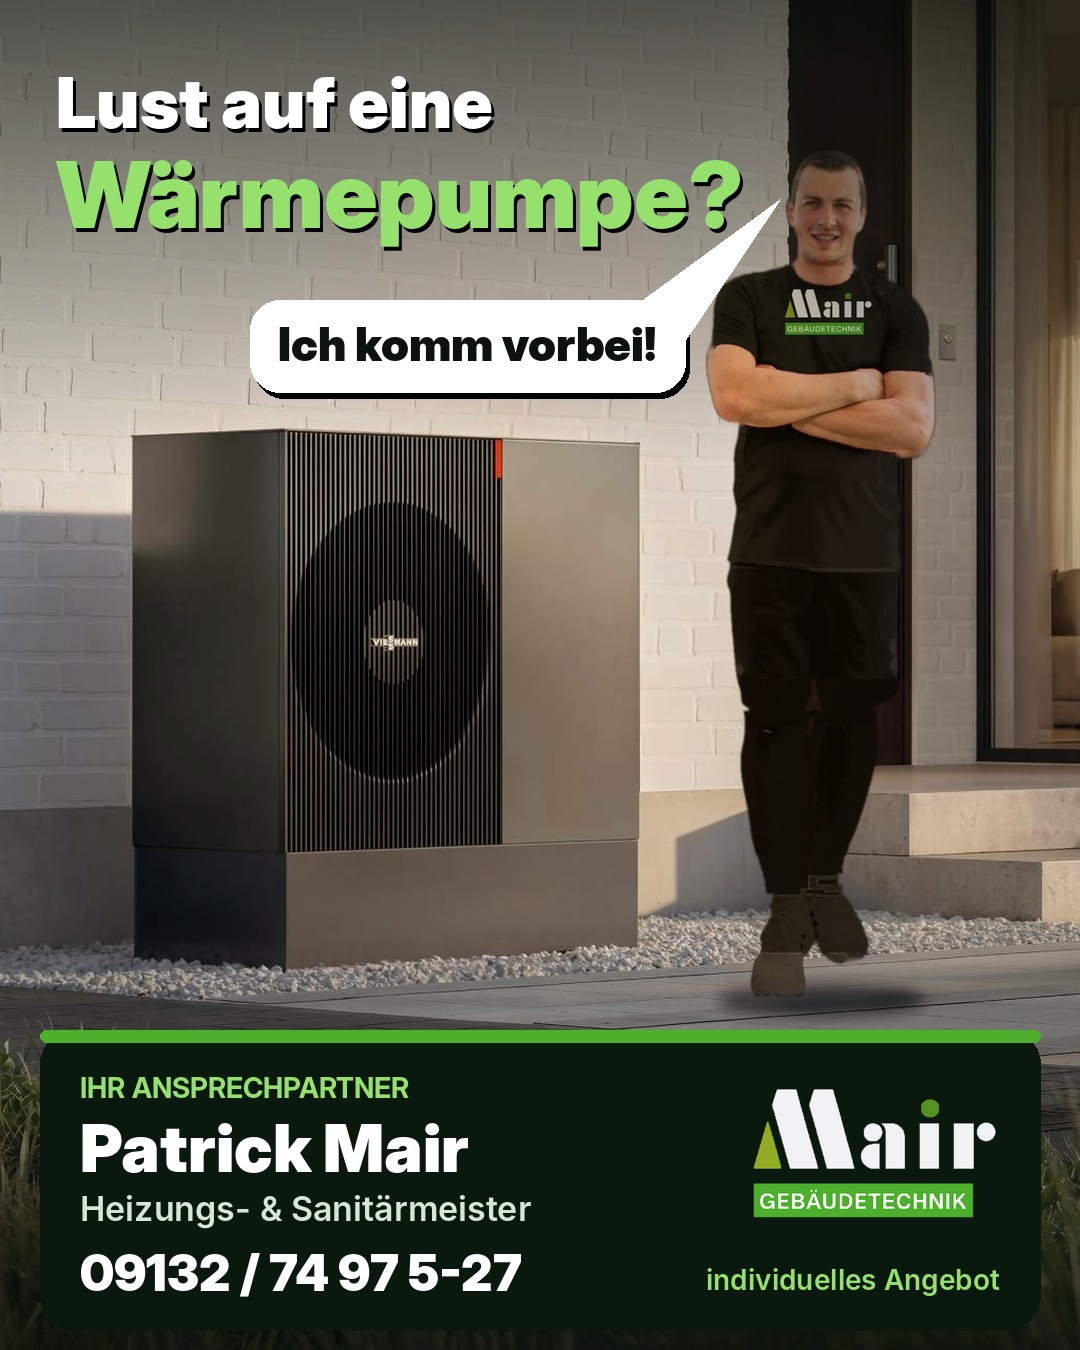
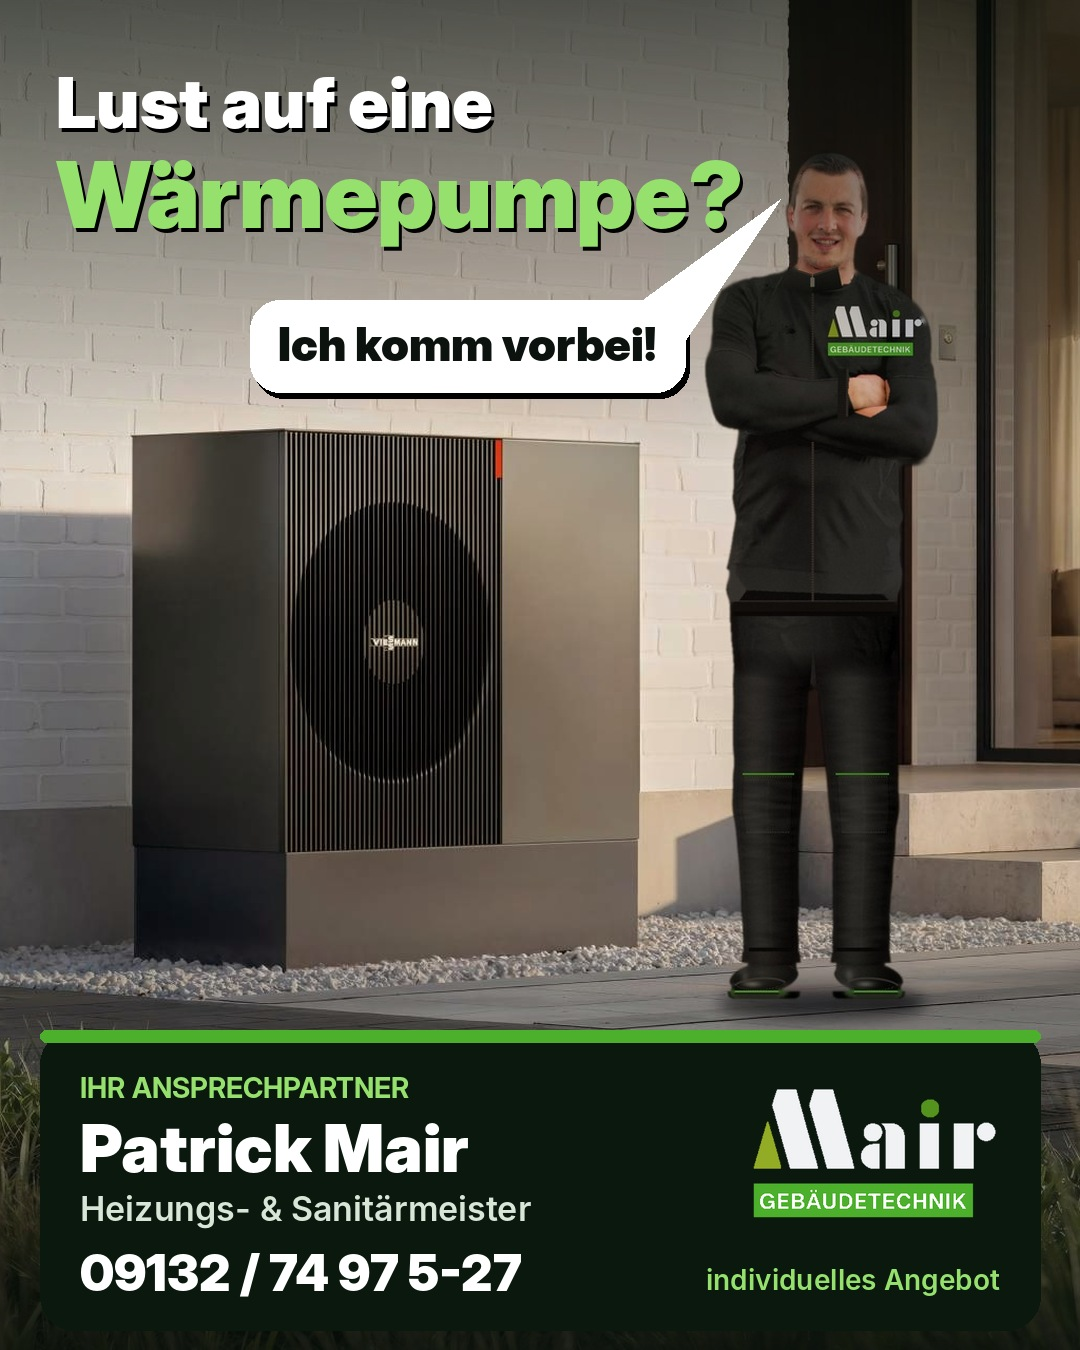
Werbefigur: Mair-Arbeitsjacke, Arbeitshose, Sicherheitsschuhe, Stand auf beiden Füßen
Claude-Session: https://claude.ai/code/session_015TKpD5CLVduBr4JdeyDFWw

Changed region(s): [[0.6722, 0.4044, 0.8556, 0.7467], [0.6417, 0.1244, 0.8861, 0.3733], [0.825, 0.4667, 0.8556, 0.4978]]

diff --git a/werbefigur/jacke.py b/werbefigur/jacke.py
@@ -1,0 +1,229 @@
+"""Patrick (p3) im kompletten Mair-Arbeitsoutfit:
+schwarze Arbeitsjacke (lange Ärmel, Stehkragen, Reißverschluss, Logo), schwarze Arbeitshose mit
+Kniepolstertaschen, schwarze Sicherheitsschuhe mit grünem Akzent, sicherer Stand auf beiden Füßen."""
+import cv2, numpy as np
+from PIL import Image
+
+SS = 3                                   # Supersampling für gezeichnete Teile
+GREEN = np.array([44, 176, 76], np.float32)   # BGR Mair-Grün
+img0 = cv2.imread('fig3/p3_crop.png').astype(np.float32)
+m0 = np.load('fig3/p3_m.npy').astype(np.float32)
+H, W = m0.shape
+lab = cv2.cvtColor(img0.astype(np.uint8), cv2.COLOR_BGR2LAB).astype(np.float32)
+L, A = lab[..., 0], lab[..., 1]
+hsv = cv2.cvtColor(img0.astype(np.uint8), cv2.COLOR_BGR2HSV).astype(np.int32)
+inside = m0 > 0.35
+rng = np.random.default_rng(3)
+TEX = cv2.GaussianBlur(rng.normal(0, 1, (H, W)).astype(np.float32), (0, 0), 0.7) * 2.2   # Stoffkorn
+
+def poly_mask(pts, shape=(H, W)):
+    big = np.zeros((shape[0] * SS, shape[1] * SS), np.uint8)
+    cv2.fillPoly(big, [np.round(np.array(pts) * SS).astype(np.int32)], 255, lineType=cv2.LINE_AA)
+    return cv2.resize(big, (shape[1], shape[0]), interpolation=cv2.INTER_AREA).astype(np.float32) / 255
+
+def norm(Lsrc, sel, lo, hi):
+    v = Lsrc[sel]
+    a, b = np.percentile(v, 3), np.percentile(v, 97)
+    return lo + np.clip((Lsrc - a) / (b - a + 1e-6), 0, 1) * (hi - lo)
+
+# ------------------------------------------------------------------ OBERKÖRPER
+Y_HEM = 742                                                   # Jackensaum
+skin = (A > 134) & (A < 172) & (L > 60) & (hsv[..., 0] < 28) & inside
+skin = cv2.morphologyEx(skin.astype(np.uint8), cv2.MORPH_OPEN, np.ones((3, 3), np.uint8)) > 0
+hand = poly_mask([(292, 371), (318, 366), (346, 374), (354, 400), (348, 428), (324, 442), (300, 434), (289, 404)]) > 0.5
+head = np.zeros_like(inside); head[:214] = True
+neck = poly_mask([(196, 150), (276, 150), (282, 238), (190, 238)]) > 0.5
+face = (head | neck) & skin
+arms = skin & ~face & ~hand
+arms[:236] = False
+shirt = inside & ~skin & ~head
+shirt[Y_HEM:] = False
+shirt[:200] = False
+# Rot-/Pink-Säume, die noch keine Haut sind
+shirt |= inside & (A > 150) & ~face & ~hand & (np.arange(H)[:, None] > 205) & (np.arange(H)[:, None] < Y_HEM)
+jacket = (shirt | arms)
+jacket[690:Y_HEM] |= inside[690:Y_HEM]                       # Jacke über Shorts-Bund verlängern
+
+# Schattierung: Torso aus Originalhelligkeit (Aufdrucke ausgeflickt), Arme getrennt normiert
+prints = shirt & (A < 160)
+prints = cv2.dilate(prints.astype(np.uint8), np.ones((7, 7), np.uint8)) > 0
+Lt = cv2.inpaint(L.astype(np.uint8), (prints & shirt).astype(np.uint8), 7, cv2.INPAINT_TELEA).astype(np.float32)
+shade = np.zeros_like(L)
+tor = shirt & ~prints
+shade = np.where(shirt, norm(Lt, tor, 12, 50), shade)
+shade = np.where(arms, norm(cv2.GaussianBlur(L, (0, 0), 1.6), arms, 10, 54), shade)
+hemz = np.zeros_like(inside); hemz[690:Y_HEM] = True; hemz &= jacket & ~shirt & ~arms
+shade = np.where(hemz, cv2.GaussianBlur(norm(L, inside & (np.arange(H)[:, None] > 700), 12, 40), (0, 0), 2), shade)
+shade += TEX
+jac_bgr = np.stack([shade * 1.03, shade * 1.0, shade * 0.97], -1)
+
+img = img0.copy()
+ja = cv2.GaussianBlur(jacket.astype(np.float32), (3, 3), 0)[..., None]
+img = img * (1 - ja) + jac_bgr * ja
+
+# Ärmelbündchen am Handgelenk (oberer Unterarm endet an der Hand)
+cuff = poly_mask([(274, 368), (290, 366), (289, 440), (273, 444)]) * ((arms | jacket) & inside & ~hand)
+img = img * (1 - cuff[..., None]) + (np.array([24, 24, 25]) + TEX[..., None] + 3 * np.sin(np.mgrid[0:H, 0:W][0] * 1.6)[..., None]) * cuff[..., None]
+cl = poly_mask([(287, 367), (290, 367), (289, 440), (286, 441)]) * (inside & ~hand)
+img = img * (1 - cl[..., None] * 0.6) + np.array([62, 62, 64]) * (cl[..., None] * 0.6)
+
+# Stehkragen (zwei Hälften, Reißverschluss-Zipper in der Mitte)
+cl_l = [(188, 242), (195, 209), (233, 221), (233, 250)]
+cl_r = [(235, 250), (235, 221), (273, 209), (280, 242)]
+for pts, sgn in ((cl_l, -1), (cl_r, 1)):
+    cm = poly_mask(pts)
+    g = 14 + 22 * np.clip(1 - (yy_ := np.mgrid[0:H, 0:W][0].astype(np.float32) - 209) / 40, 0, 1) + (8 if sgn < 0 else 0)
+    cb = np.stack([g + TEX] * 3, -1)
+    img = img * (1 - cm[..., None]) + cb * cm[..., None]
+    top = np.clip(poly_mask(pts) - poly_mask([(p[0], p[1] + (3 if i in (1, 2) else 0)) for i, p in enumerate(pts)]), 0, 1)
+    img = img * (1 - top[..., None] * 0.8) + np.array([66, 66, 68]) * top[..., None] * 0.8
+pull = poly_mask([(231, 226), (237, 226), (237, 240), (231, 240)])
+img = img * (1 - pull[..., None]) + np.array([120, 122, 124]) * pull[..., None]
+# Reißverschluss (nur auf sichtbarem Torso, unter den Armen verdeckt)
+zip_ = poly_mask([(233, 250), (236, 250), (236, Y_HEM), (233, Y_HEM)]) * (shirt | hemz).astype(np.float32)
+img = img * (1 - zip_[..., None]) + np.array([38, 38, 40]) * zip_[..., None]
+teeth = zip_ * ((np.arange(H)[:, None] % 4) < 2)
+img = img * (1 - teeth[..., None] * 0.5) + np.array([62, 62, 65]) * teeth[..., None] * 0.5
+# Saum-Bund
+hemb = poly_mask([(96, Y_HEM - 16), (378, Y_HEM - 16), (378, Y_HEM), (96, Y_HEM)]) * inside
+img = img * (1 - hemb[..., None]) + (np.array([16, 16, 17]) + TEX[..., None]) * hemb[..., None]
+hl = poly_mask([(96, Y_HEM - 17), (378, Y_HEM - 17), (378, Y_HEM - 15), (96, Y_HEM - 15)]) * inside
+img = img * (1 - hl[..., None] * 0.5) + np.array([60, 60, 62]) * hl[..., None] * 0.5
+# ------------------------------------------------------------------ UNTERKÖRPER (neu aufgebaut)
+FLOOR = 1342
+keep = np.zeros_like(inside); keep[:Y_HEM] = True
+hips = inside.copy(); hips[:Y_HEM] = False; hips[866:] = False          # echte Hosenpartie (Shorts) bis Oberschenkel
+# Hüftpartie: Zylinder-Schattierung je Zeile + echte Falten (Hochpass) aus den Shorts
+hskin = hips & ((A > 134) | (L > 80))
+hskin = cv2.dilate(hskin.astype(np.uint8), np.ones((7, 7), np.uint8)) > 0
+Lh = cv2.inpaint(np.clip(L, 0, 255).astype(np.uint8), (hskin & hips).astype(np.uint8), 9, cv2.INPAINT_TELEA).astype(np.float32)
+hp = Lh - cv2.GaussianBlur(Lh, (0, 0), 6)
+hp = np.clip(hp, -12, 12)
+xs_ = np.arange(W, dtype=np.float32)
+hsh = np.zeros_like(L)
+for y in range(Y_HEM, 866):
+    r = np.where(inside[y])[0]
+    if r.size < 5: continue
+    u = (xs_ - r.min()) / (r.max() - r.min() + 1e-6)
+    hsh[y] = 12 + 26 * np.exp(-((u - 0.33) / 0.33) ** 2) - 6 * np.clip((u - 0.82) / 0.18, 0, 1)
+hipsh = hsh + 0.5 * hp + TEX
+img = np.where(hips[..., None], np.stack([hipsh * 1.03, hipsh, hipsh * 0.97], -1), img)
+# Gesäßtaschen-/Gürtelandeutung: Gürtel unter dem Jackensaum
+belt = poly_mask([(100, Y_HEM), (376, Y_HEM), (376, Y_HEM + 7), (100, Y_HEM + 7)]) * hips
+img = img * (1 - belt[..., None]) + np.array([9, 9, 10]) * belt[..., None]
+# Hosenbeine: geschwungene Kanten, Faltenkarte, Schritt geschlossen
+row = np.where(inside[804])[0]; xl, xr = row.min() + 2, row.max() - 2
+alpha = np.where(keep, m0, 0).astype(np.float32)
+alpha = np.maximum(alpha, hips.astype(np.float32) * m0)
+yy, xx = np.mgrid[0:H, 0:W].astype(np.float32)
+Y0, Y1 = 800, 1286
+ys = np.arange(H, dtype=np.float32)
+t = np.clip((ys - Y0) / (Y1 - Y0), 0, 1)
+def lerp(a, b, t): return a + (b - a) * t
+bulge = np.sin(np.pi * np.clip(t * 1.25, 0, 1)) * 6           # Oberschenkel
+knee = np.exp(-((ys - 1045) / 40) ** 2) * 4
+wob = cv2.GaussianBlur(rng.normal(0, 1, (H, 4)).astype(np.float32), (1, 0), sigmaX=0.1, sigmaY=9) * 2.5
+legs = [  # x(y) für linke und rechte Kante
+    (lerp(xl, 126, t) - bulge - knee + wob[:, 0], lerp(234, 214, np.clip(t * 1.6, 0, 1)) + wob[:, 1] * 0.6),
+    (lerp(235, 264, np.clip(t * 1.6, 0, 1)) + wob[:, 2] * 0.6, lerp(xr, 354, t) + bulge + knee + wob[:, 3]),
+]
+# Faltenkarte (quer laufende, weiche Falten)
+fn = rng.normal(0, 1, (H, W)).astype(np.float32)
+fold = cv2.GaussianBlur(fn, (0, 0), sigmaX=10, sigmaY=2.2)
+fold = fold / (fold.std() + 1e-6)
+pants_rgb = np.zeros((H, W, 3), np.float32); pants_a = np.zeros((H, W), np.float32)
+for li, (xa, xb) in enumerate(legs):
+    pm = np.zeros((H * SS, W * SS), np.uint8)
+    pts = [(xa[y], y) for y in range(Y0, Y1 + 1)] + [(xb[y], y) for y in range(Y1, Y0 - 1, -1)]
+    cv2.fillPoly(pm, [np.round(np.array(pts) * SS).astype(np.int32)], 255, lineType=cv2.LINE_AA)
+    pm = cv2.resize(pm, (W, H), interpolation=cv2.INTER_AREA).astype(np.float32) / 255
+    u = np.clip((xx - xa[:, None]) / (xb - xa + 1e-6)[:, None], 0, 1)
+    light = 0.30 if li == 0 else 0.40                           # Licht von links
+    sh = 12 + 30 * np.exp(-((u - light) / 0.30) ** 2) - 7 * np.clip((u - 0.8) / 0.2, 0, 1)
+    sh += 2.8 * fold * (0.4 + 0.6 * np.exp(-((yy - 1050) / 70) ** 2) + 0.9 * np.clip((yy - 1210) / 80, 0, 1))
+    sh += 7 * np.exp(-((u - 0.5) / 0.02) ** 2) * np.clip((yy - 900) / 60, 0, 1) * 0.5      # Bügelfalte
+    sh += TEX
+    kpl = (yy > 992) & (yy < 1088) & (u > 0.14) & (u < 0.86)
+    sh = np.where(kpl, sh + 3, sh)
+    edge_k = kpl & ~((yy > 995) & (yy < 1085) & (u > 0.16) & (u < 0.84))
+    sh = np.where(edge_k, sh - 6, sh)
+    stitch = ((np.abs(yy - 997) < 0.7) | (np.abs(yy - 1083) < 0.7)) & (u > 0.17) & (u < 0.83) & ((xx.astype(int) % 4) < 2)
+    col = np.stack([sh * 1.03, sh, sh * 0.97], -1)
+    col = np.where(stitch[..., None], np.array([58, 60, 62], np.float32), col)
+    gp = (np.abs(yy - 993) < 1.3) & (u > 0.14) & (u < 0.86)
+    col = np.where(gp[..., None], GREEN * 0.75, col)
+    ramp = np.clip((yy - Y0) / 45, 0, 1)
+    pmr = pm * ramp
+    pants_rgb = pants_rgb * (1 - pmr[..., None]) + col * pmr[..., None]
+    pants_a = np.maximum(pants_a, pmr)
+img = img * (1 - pants_a[..., None]) + pants_rgb * pants_a[..., None]
+alpha = np.maximum(alpha, pants_a)
+
+# Sicherheitsschuhe (Vorderansicht, leicht nach außen gedreht)
+def ell(cx, cy, rx, ry, ang=0):
+    big = np.zeros((H * SS, W * SS), np.uint8)
+    cv2.ellipse(big, (int(cx * SS), int(cy * SS)), (int(rx * SS), int(ry * SS)), ang, 0, 360, 255, -1, lineType=cv2.LINE_AA)
+    return cv2.resize(big, (W, H), interpolation=cv2.INTER_AREA).astype(np.float32) / 255
+def paint(img, mask, col):
+    return img * (1 - mask[..., None]) + col * mask[..., None]
+def shoe(cx, side, img, alpha):
+    ox = side * 13
+    shaft = poly_mask([(cx - 36, 1262), (cx + 36, 1262), (cx + 40, 1306), (cx - 40, 1306)])
+    vamp = ell(cx + ox, 1308, 55, 26, side * 8)
+    toe = ell(cx + ox * 1.5, 1321, 46, 16, side * 8)
+    up = np.clip(shaft + vamp + toe, 0, 1)
+    r = np.sqrt(((xx - (cx - 18)) / 70) ** 2 + ((yy - 1300) / 40) ** 2)
+    g = 9 + 40 * np.clip(1 - r, 0, 1) ** 1.4 + TEX
+    g += 70 * np.exp(-(((xx - (cx - 12 + ox * 1.5)) / 13) ** 2 + ((yy - 1318) / 4.5) ** 2))     # Glanz Zehenkappe
+    g += 30 * np.exp(-(((xx - (cx - 30 + ox)) / 6) ** 2 + ((yy - 1306) / 10) ** 2))            # Kantenlicht
+    upc = np.stack([g * 1.02, g, g * 0.98], -1)
+    # Kappen-Naht
+    capline = np.clip(ell(cx + ox * 1.5, 1322, 43, 14, side * 4) - ell(cx + ox * 1.5, 1323.5, 41, 12.5, side * 4), 0, 1)
+    capline[1322:] = 0
+    upc = paint(upc, capline * 0.8, np.array([60, 60, 62], np.float32))
+    img = paint(img, up, upc)
+    bump = np.clip(ell(cx + ox * 1.5, 1324, 49, 12, side * 8) - ell(cx + ox * 1.5, 1318, 47, 12, side * 8), 0, 1)
+    bump[:1316] = 0
+    img = paint(img, bump, np.stack([30 + TEX] * 3, -1))
+    stl = np.clip(ell(cx + ox, 1306, 49, 21, side * 8) - ell(cx + ox, 1306, 47.6, 19.8, side * 8), 0, 1)
+    stl[:1290] = 0
+    stl *= ((xx.astype(int) + yy.astype(int)) % 4 < 2)
+    img = paint(img, stl * 0.7, np.array([70, 70, 72], np.float32))
+    # Sohle
+    sole = np.clip(poly_mask([(cx - 58 + ox, 1328), (cx + 58 + ox, 1328), (cx + 56 + ox, FLOOR - 3), (cx + 50 + ox, FLOOR),
+                              (cx - 50 + ox, FLOOR), (cx - 56 + ox, FLOOR - 3)]), 0, 1)
+    sg = 24 + 16 * np.clip(1 - (yy - 1328) / 14, 0, 1) + TEX
+    img = paint(img, sole, np.stack([sg] * 3, -1))
+    tread = poly_mask([(cx - 52 + ox, FLOOR - 4), (cx + 52 + ox, FLOOR - 4), (cx + 50 + ox, FLOOR), (cx - 50 + ox, FLOOR)])
+    img = paint(img, tread * 0.8, np.array([12, 12, 13], np.float32))
+    grn = poly_mask([(cx - 57 + ox, 1328.2), (cx + 57 + ox, 1328.2), (cx + 57 + ox, 1330.8), (cx - 57 + ox, 1330.8)])
+    img = paint(img, grn, GREEN)
+    tab = poly_mask([(cx - 5, 1258), (cx + 5, 1258), (cx + 5, 1266), (cx - 5, 1266)])        # grüne Zuglasche
+    return img, np.maximum(alpha, np.clip(up + sole, 0, 1))
+
+img, alpha = shoe(172, -1, img, alpha)
+img, alpha = shoe(308, 1, img, alpha)
+# Hosensaum liegt auf dem Schuh (leichte Stauchung)
+for li, (cx, xa, xb) in enumerate(((172, legs[0][0], legs[0][1]), (308, legs[1][0], legs[1][1]))):
+    x0, x1 = xa[1280] - 1, xb[1280] + 1
+    hem = poly_mask([(x0, 1268), (x1, 1268), (x1 + 2, 1286), ((x0 + x1) / 2, 1290), (x0 - 2, 1286)])
+    u = np.clip((xx - x0) / (x1 - x0), 0, 1)
+    hg = 12 + 24 * np.exp(-((u - 0.35) / 0.3) ** 2) - 6 * np.clip((yy - 1280) / 10, 0, 1) + TEX
+    img = paint(img, hem, np.stack([hg] * 3, -1))
+    alpha = np.maximum(alpha, hem)
+
+# Logo (linke Brust)
+LOGO = Image.open('/home/claude/mair-videos-public-create/werkzeuge/marke/mair_logo_dunkel_clean.png').convert('RGBA')
+rgb = cv2.cvtColor(np.clip(img, 0, 255).astype(np.uint8), cv2.COLOR_BGR2RGB)
+P = Image.fromarray(np.dstack([rgb, (np.clip(alpha, 0, 1) * 255).astype(np.uint8)]), 'RGBA')
+lw = 150; Lg = LOGO.resize((lw, int(lw * LOGO.height / LOGO.width)), Image.LANCZOS)
+# Logo leicht abdunkeln/entsättigen wie Druck auf Stoff
+la = np.array(Lg).astype(np.float32); la[..., :3] *= 1.0; Lg = Image.fromarray(la.astype(np.uint8), 'RGBA')
+P.alpha_composite(Lg, (256, 266))
+ys, xs = np.where(np.array(P.getchannel('A')) > 40)
+P = P.crop((max(0, xs.min() - 12), max(0, ys.min() - 12), xs.max() + 12, ys.max() + 12))
+P.save('fig3/p3_mair_jacke.png')
+for nm, col in (('hell', (232, 236, 233)), ('dunkel', (40, 60, 45))):
+    bg = Image.new('RGBA', P.size, col + (255,)); bg.alpha_composite(P)
+    bg.convert('RGB').save(f'fig3/p3_jacke_{nm}.jpg', quality=93)
+print('ok', P.size)

diff --git a/werbefigur/comp2.py b/werbefigur/comp2.py
@@ -3,7 +3,7 @@ import sys, numpy as np, cv2
 from PIL import Image, ImageFilter, ImageEnhance, ImageDraw
 
 BG = '/root/.claude/uploads/21fb353a-f208-59b6-a114-5f5699f3e0dd/c3d7ac3b-image.jpg'
-FIG = 'fig3/p3_mair_outfit.png'
+FIG = 'fig3/p3_mair_jacke.png'
 FH = int(sys.argv[1]) if len(sys.argv) > 1 else 820      # Körpergröße in px (~1,85 m bei ~440 px/m)
 CX = int(sys.argv[2]) if len(sys.argv) > 2 else 1300     # Mitte Füße x
 FY = int(sys.argv[3]) if len(sys.argv) > 3 else 952      # Fußlinie y
@@ -18,10 +18,12 @@ rgb = np.array(fig.convert('RGB')).astype(np.float32)
 a = np.array(fig.getchannel('A')).astype(np.float32) / 255
 xx = np.linspace(0, 1, FW)[None, :, None]
 warm = np.array([1.10, 1.00, 0.86])[None, None]
-shade = np.array([0.80, 0.84, 0.92])[None, None]
+shade = np.array([0.92, 0.94, 0.98])[None, None]
 grade = warm * (1 - xx) + shade * xx            # links warm beleuchtet, rechts kühler Schatten
-rgb = rgb * grade
-rgb = (rgb - 128) * 1.0 + 128 + np.array([3, 0, -4])
+lum = rgb.mean(-1, keepdims=True)
+k = np.clip(lum / 140, 0, 1)
+rgb = rgb * (1 + (grade - 1) * k)
+rgb = rgb * np.array([1.0, 0.99, 1.0])
 # Rim-Light links (Sonnenkante)
 edge = cv2.Canny((a * 255).astype(np.uint8), 50, 150).astype(np.float32) / 255
 kern = np.zeros((1, 9), np.float32); kern[0, 5:] = 1 / 4             # nur innen rechts der linken Kante

diff --git a/werbefigur/README.md b/werbefigur/README.md
@@ -3,7 +3,8 @@
 **Regel (ab 08.10.2026):** Patrick erscheint in Werbebildern/-videos immer im Mair-Outfit:
 schwarzes Oberteil (Arbeitsjacke/Shirt) mit großem grün-weißem „Mair GEBÄUDETECHNIK“-Logo, schwarze Arbeitshose, schwarze Schuhe.
 
-- `patrick_ganzkoerper_mair_outfit.png` – freigestellt, Ganzkörper, Arme verschränkt (Dubai-Foto)
+- `patrick_ganzkoerper_mair_jacke.png` – Ganzkörper in schwarzer Mair-Arbeitsjacke (lange Ärmel, Stehkragen, Reißverschluss, Logo), Arbeitshose mit Kniepolstertaschen, Sicherheitsschuhe, Stand auf beiden Füßen (`jacke.py`)
+- `patrick_ganzkoerper_mair_outfit.png` – ältere Shirt-Version
 - `patrick_polo_mair_outfit.png` – freigestellt, Polo, Hand an der Hüfte (linke Bildkante beschnitten → nur als Brustbild/rechts im Bild nutzen)
 - `patrick_waermepumpe_massstab.jpg` – maßstabsgetreu rechts neben Viessmann-WP (~440 px/m, 1,82 m)
 - `Mair_Anzeige_Feed_4x5.jpg`, `Mair_Anzeige_Story_9x16.jpg`
